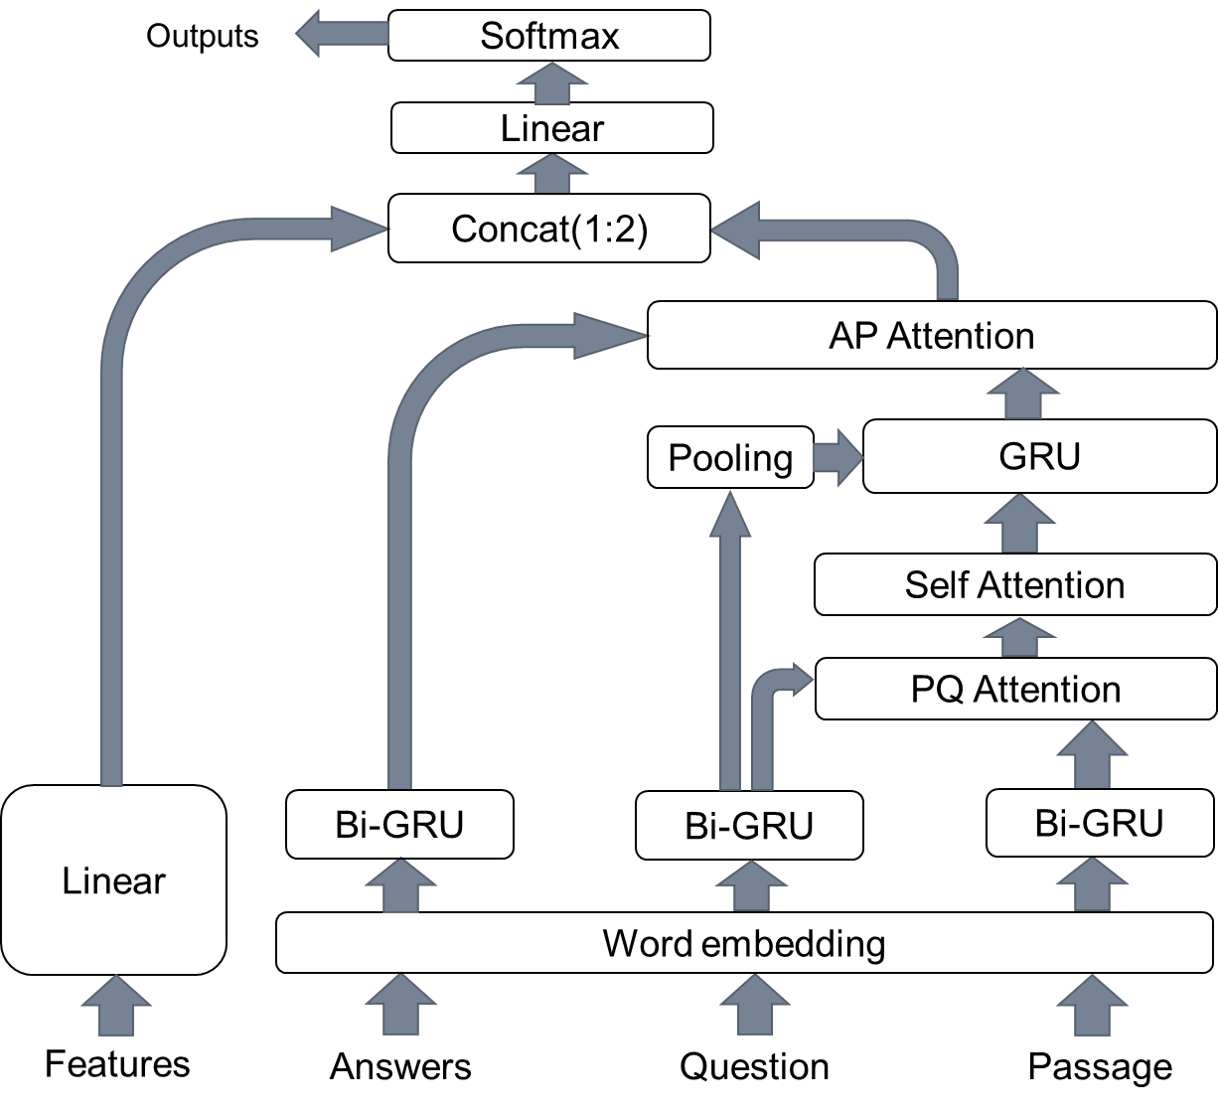
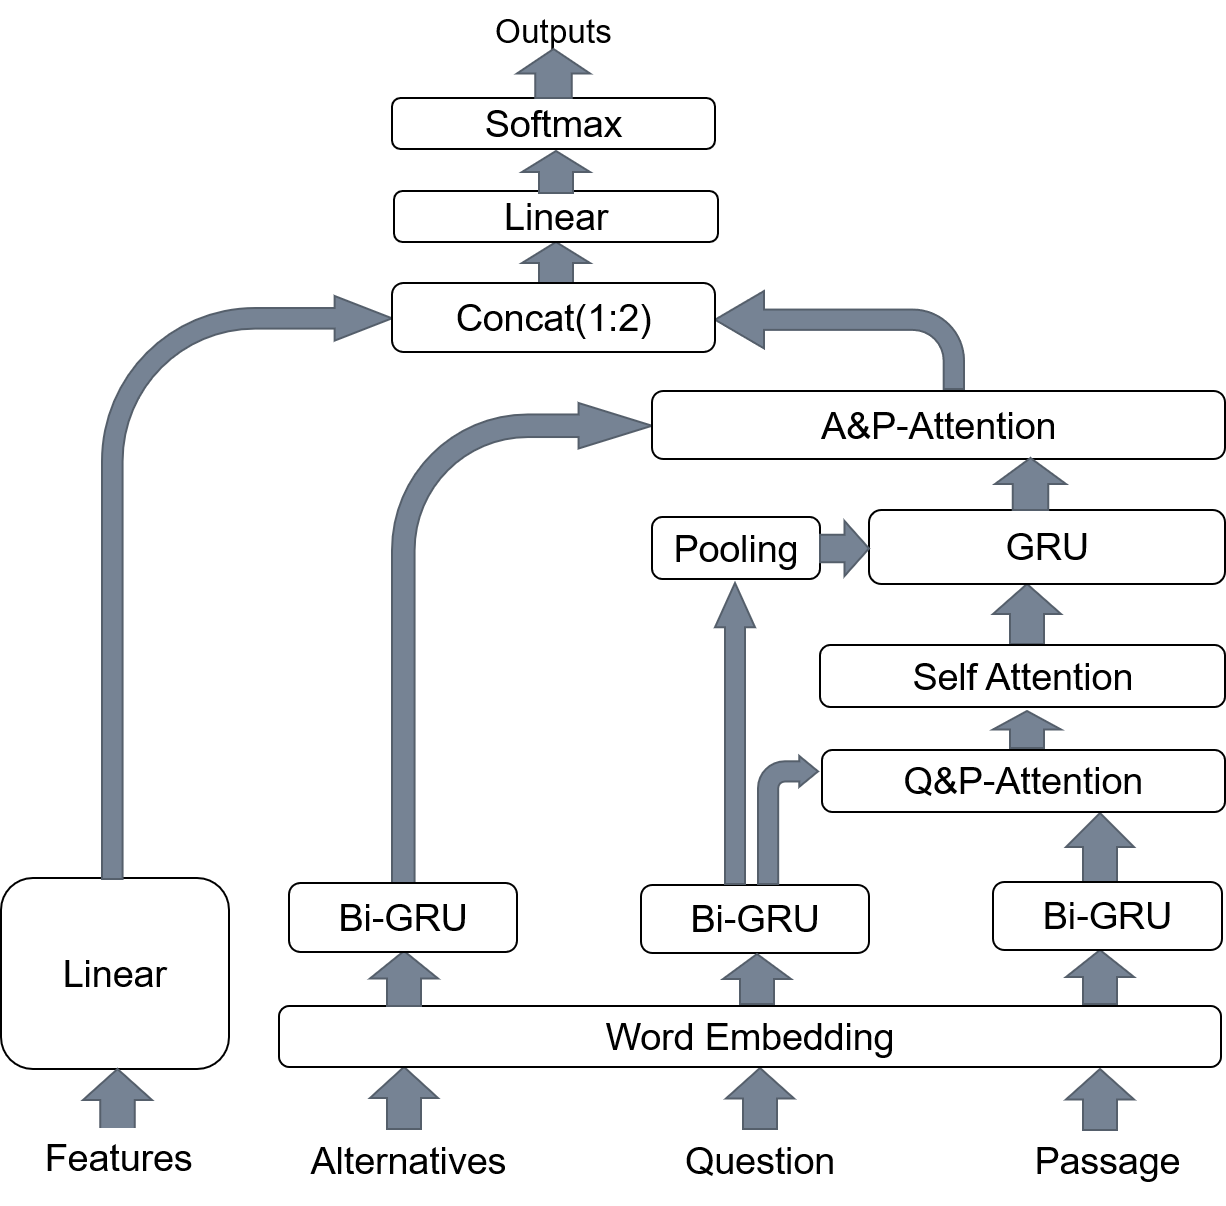
best single model

diff --git a/README.md b/README.md
@@ -34,7 +34,7 @@ baseline模型借鉴了微软R-Net模型，感谢[HKUST-KnowComp](https://github
 
 ## 4.best single model
 
-最好成绩的单模型我们选择加入alternatives语义和feature engineering的方式。
+最好成绩的单模型我们选择加入alternatives语义和feature engineering的方式，基于R-Net改进。
 alternatives语义：由于观点型问题的某些备选答案是携带语义信息的，所以我们将备选答案也做encoding处理。
 feature engneering：特征工程，我们使用了tf-idf等方法，将提取的特征向量作为深度模型的另一个输入，只用Linear层进行处理。由于阅读理解任务数据的特性，特征工程这部分工作只有微弱提升，没有公开代码。
 
